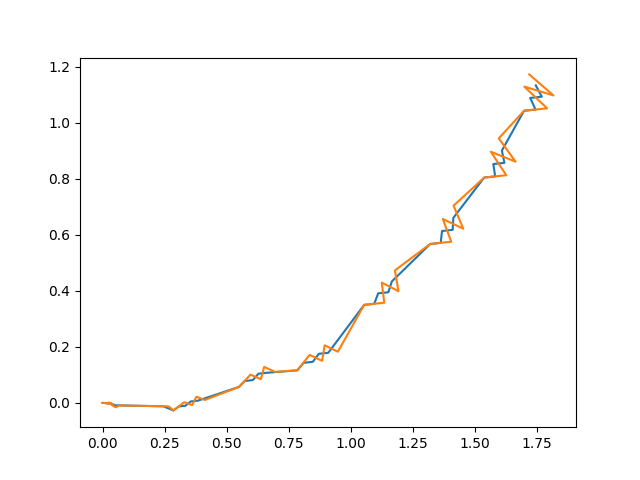
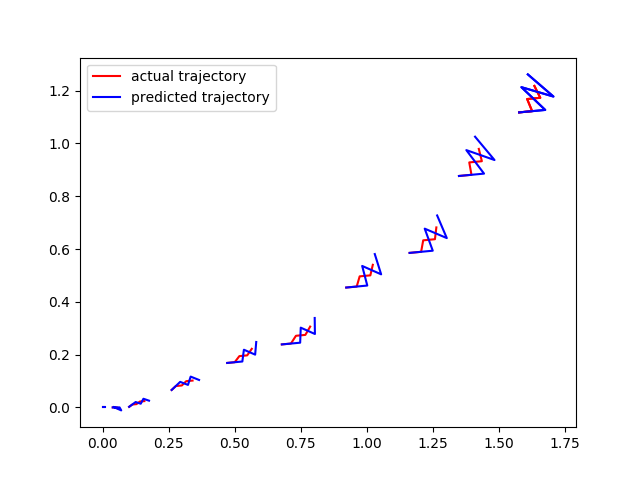
visualization of windows refractored

diff --git a/simulation.py b/simulation.py
@@ -3,6 +3,7 @@ import time
 import matplotlib
 matplotlib.use('Agg')
 import matplotlib.pyplot as plt
+import matplotlib as mpl
 import keyboard
 import numpy as np
 import random
@@ -14,11 +15,11 @@ p = [0.01, 0.01]
 
 dt = 0.1  # timestep
 
-N = 100 # simulate for N timesteps
+N = 100  # simulate for N timesteps
 
 w = 5  # size of window
 
-n = 10 #windows to visualized
+n = 10  # windows to visualized
 
 delta_f_list = []
 a_list = []
@@ -78,6 +79,7 @@ def euler(state, state_dot, dt):
     '''
     result = state + state_dot * dt
     return result
+
 
 def main():
     # define initial state
@@ -139,15 +141,47 @@ def main():
     windows = create_windows(states, w, delta_f_list, a_list, True)
     predicted_windows = predict_windows(windows, states)
 
-    print('windows size: {}'.format(windows.shape))
-    print('predicted_windows size: {}'.format(predicted_windows.shape))
+    visualize_windows(windows, predicted_windows)
 
-    x_new = []
-    y_new = []
+
+def visualize_windows(windows, predicted_windows):
+    x_actual, y_actual, x_pred, y_pred = extract_stages(
+        windows, n, predicted_windows)
+
+    x_actual_splits = [x_actual[i*w:(i+1)*w] for i in range(len(x_actual)//w)]
+    y_actual_splits = [y_actual[i*w:(i+1)*w] for i in range(len(y_actual)//w)]
+
+    x_pred_splits = [x_pred[i*w:(i+1)*w] for i in range(len(x_pred)//w)]
+    y_pred_splits = [y_pred[i*w:(i+1)*w] for i in range(len(y_pred)//w)]
+
+    for x_actual_val, y_actual_val, x_pred_val, y_pred_val in zip(x_actual_splits,
+                                                                  y_actual_splits, x_pred_splits, y_pred_splits):
+        plt.plot(x_actual_val, y_actual_val, color='red')
+        plt.plot(x_pred_val, y_pred_val, color='blue')
+    else:
+        plt.plot(x_actual_val, y_actual_val,
+                 color='red', label='actual trajectory')
+        plt.plot(x_pred_val, y_pred_val, color='blue',
+                 label='predicted trajectory')
+
+    # plt.plot(x_new,y_new)
+    # plt.plot(x_pred,y_pred, color='blue')
+
+    # Uncomment to view actual and predicted trajectory
+    # plt.plot(predicted_x, predicted_y)
+    # plt.plot(x, y)
+
+    plt.legend(loc='best')
+    plt.savefig('myfig')
+
+
+def extract_stages(windows, n, predicted_windows):
+    x_actual = []
+    y_actual = []
     x_pred = []
     y_pred = []
 
-    for i in range(0,windows.shape[0]+1, n):
+    for i in range(0, windows.shape[0]+1, n):
         # print(i)
         window = windows[i]
         window_pred = predicted_windows[i]
@@ -155,20 +189,11 @@ def main():
         states = [item[0] for item in window]
         states_pred = [item[0] for item in window_pred]
 
-        [(x_new.append(item[0]), y_new.append(item[1])) for item in states]
-        [(x_pred.append(item[0]), y_pred.append(item[1])) for item in states_pred]
-
-    # print(len(x_new))
-    # print(len(y_new))
-    plt.plot(x_new,y_new)
-    plt.plot(x_pred,y_pred)
-
-
-    #Uncomment to view actual and predicted trajectory
-    # plt.plot(predicted_x, predicted_y)
-    # plt.plot(x, y)
-
-    plt.savefig('myfig')
+        [(x_actual.append(item[0]), y_actual.append(item[1]))
+         for item in states]
+        [(x_pred.append(item[0]), y_pred.append(item[1]))
+         for item in states_pred]
+    return x_actual, y_actual, x_pred, y_pred
 
     # print(scoring_array)
     # plt.show()
@@ -179,18 +204,16 @@ def predict_windows(windows, states):
     global predicted_x
     global predicted_y
     for i, window in enumerate(windows):
-        #get first item in window list
-        first_item_in_window = window[0] 
-        predicted_state = first_item_in_window[0] 
+        # get first item in window list
+        first_item_in_window = window[0]
+        predicted_state = first_item_in_window[0]
         a = first_item_in_window[1]
         delta_f = first_item_in_window[2]
-        
-        predicted_states = [(predicted_state, a, delta_f)]
 
+        predicted_states = [(predicted_state, a, delta_f)]
 
         predicted_x.append(predicted_state[0])
         predicted_y.append(predicted_state[1])
-
 
         rest_of_stages_in_window = window[1:]
 
@@ -198,52 +221,25 @@ def predict_windows(windows, states):
             predicted_state = state_and_parameters[0]
             a = state_and_parameters[1]
             delta_f = state_and_parameters[2]
-            
+
             predicted_state_dot = f_prime(predicted_state, a, delta_f, p)
 
             predicted_x.append(predicted_state[0])
             predicted_y.append(predicted_state[1])
             predicted_state = euler(predicted_state, predicted_state_dot, dt)
-            predicted_states.append([predicted_state,a, delta_f])
-        
-        
+            predicted_states.append([predicted_state, a, delta_f])
+
         predicted_states = np.array(predicted_states)
-        #compute cost
-        states_pred = predicted_states[:,0]  #set all states
+        # compute cost
+        states_pred = predicted_states[:, 0]  # set all states
         # print(states_pred.shape)
         # print(state_considered.shape)
         # print('.................')
         scoring_array.append(cost_function(states_pred, states[i:w+i].T))
 
-        predicted_windows.append(predicted_states) 
+        predicted_windows.append(predicted_states)
     predicted_windows = np.array(predicted_windows)
     return predicted_windows
-
-        
-def window_stack(array, stepsize, width):
-    '''
-    This function creates a window stack from the array provided
-    INPUT:
-        array: a numpy.ndarray vector of type 'float' containing values
-        stepsize: float representing step size of the window
-        width : int representing the width of the width
-    OUTPUT:
-        ndarray of values divided into windows stacks
-    '''
-    n = array.shape[0]
-    return np.hstack(array[i:1+n+i-width:stepsize] for i in range(0, width))
-
-
-def last_window(array, n):
-    '''
-    This function returns the last nth item in an array
-    INPUT:
-        array: a numpy.ndarray vector of type 'float' containing values
-        size : int representing the starting index of the window
-    OUTPUT:
-        ndarray of last nth items in the array
-    '''
-    return array[-n:]
 
 
 def cost_function(correct_stage, predicted_stage):
@@ -297,4 +293,3 @@ def create_windows(stages, n, delta_f_list, a_list, exact=True):
 
 if __name__ == '__main__':
     main()
-
